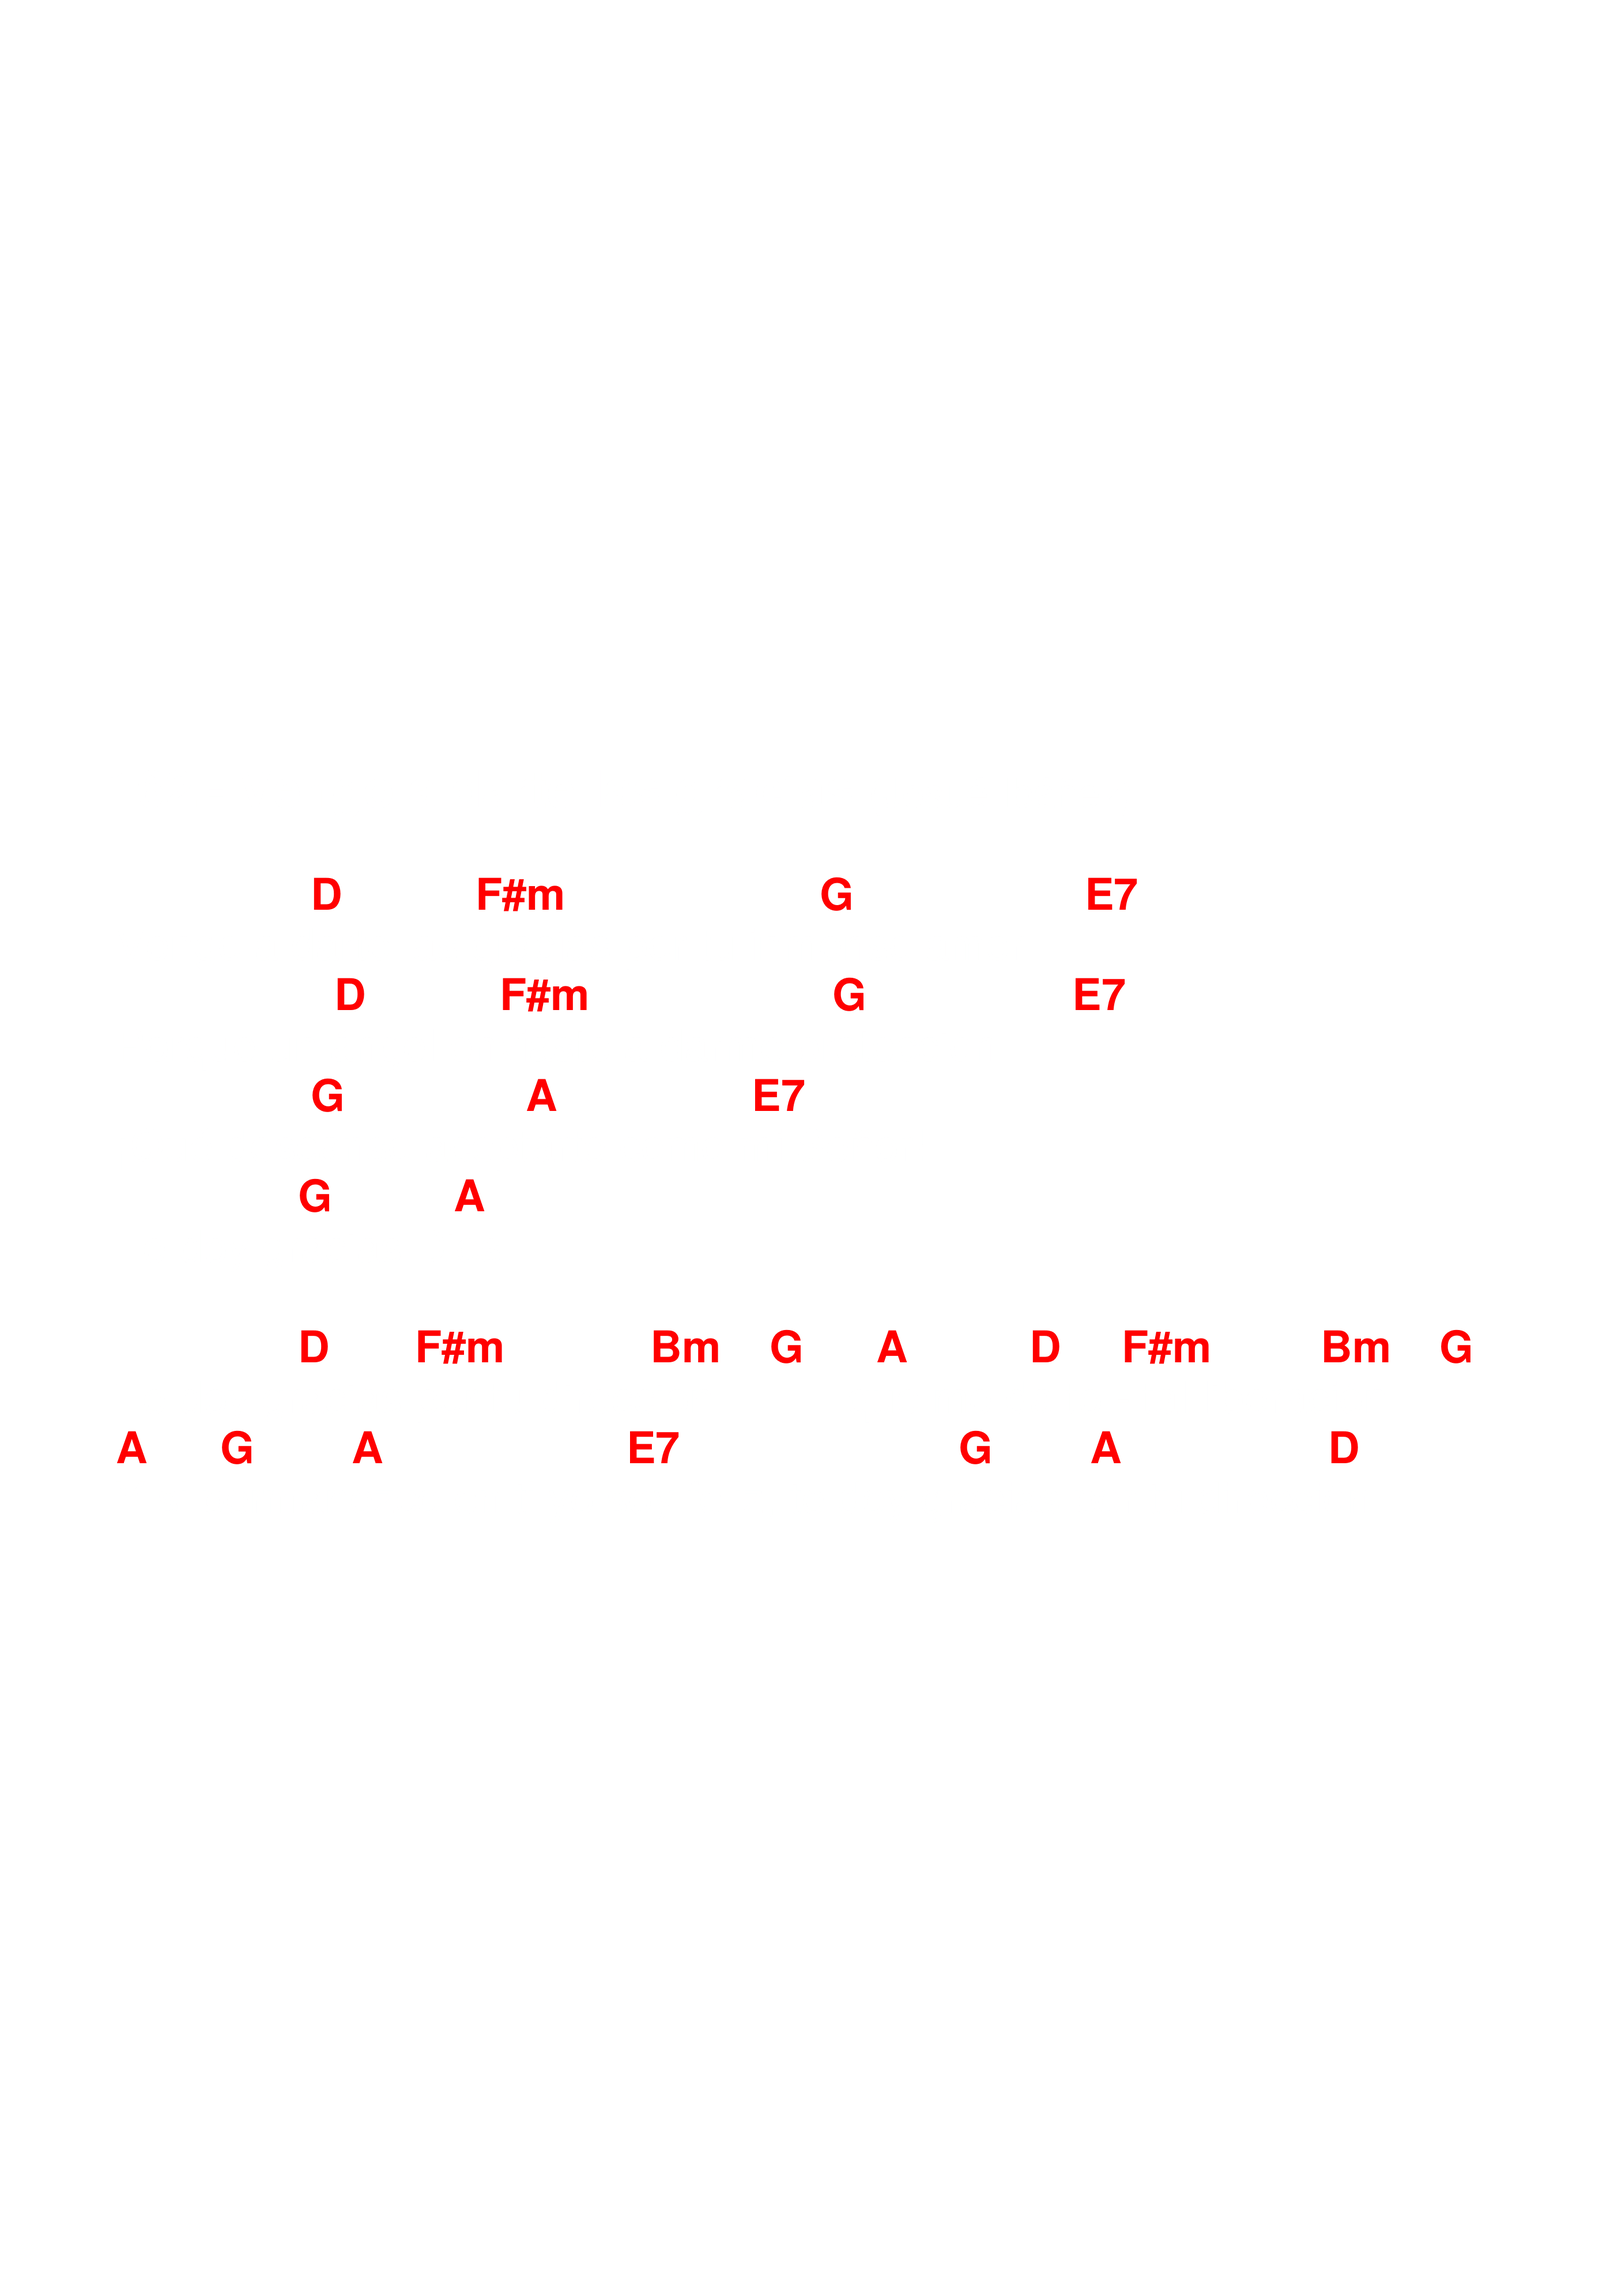
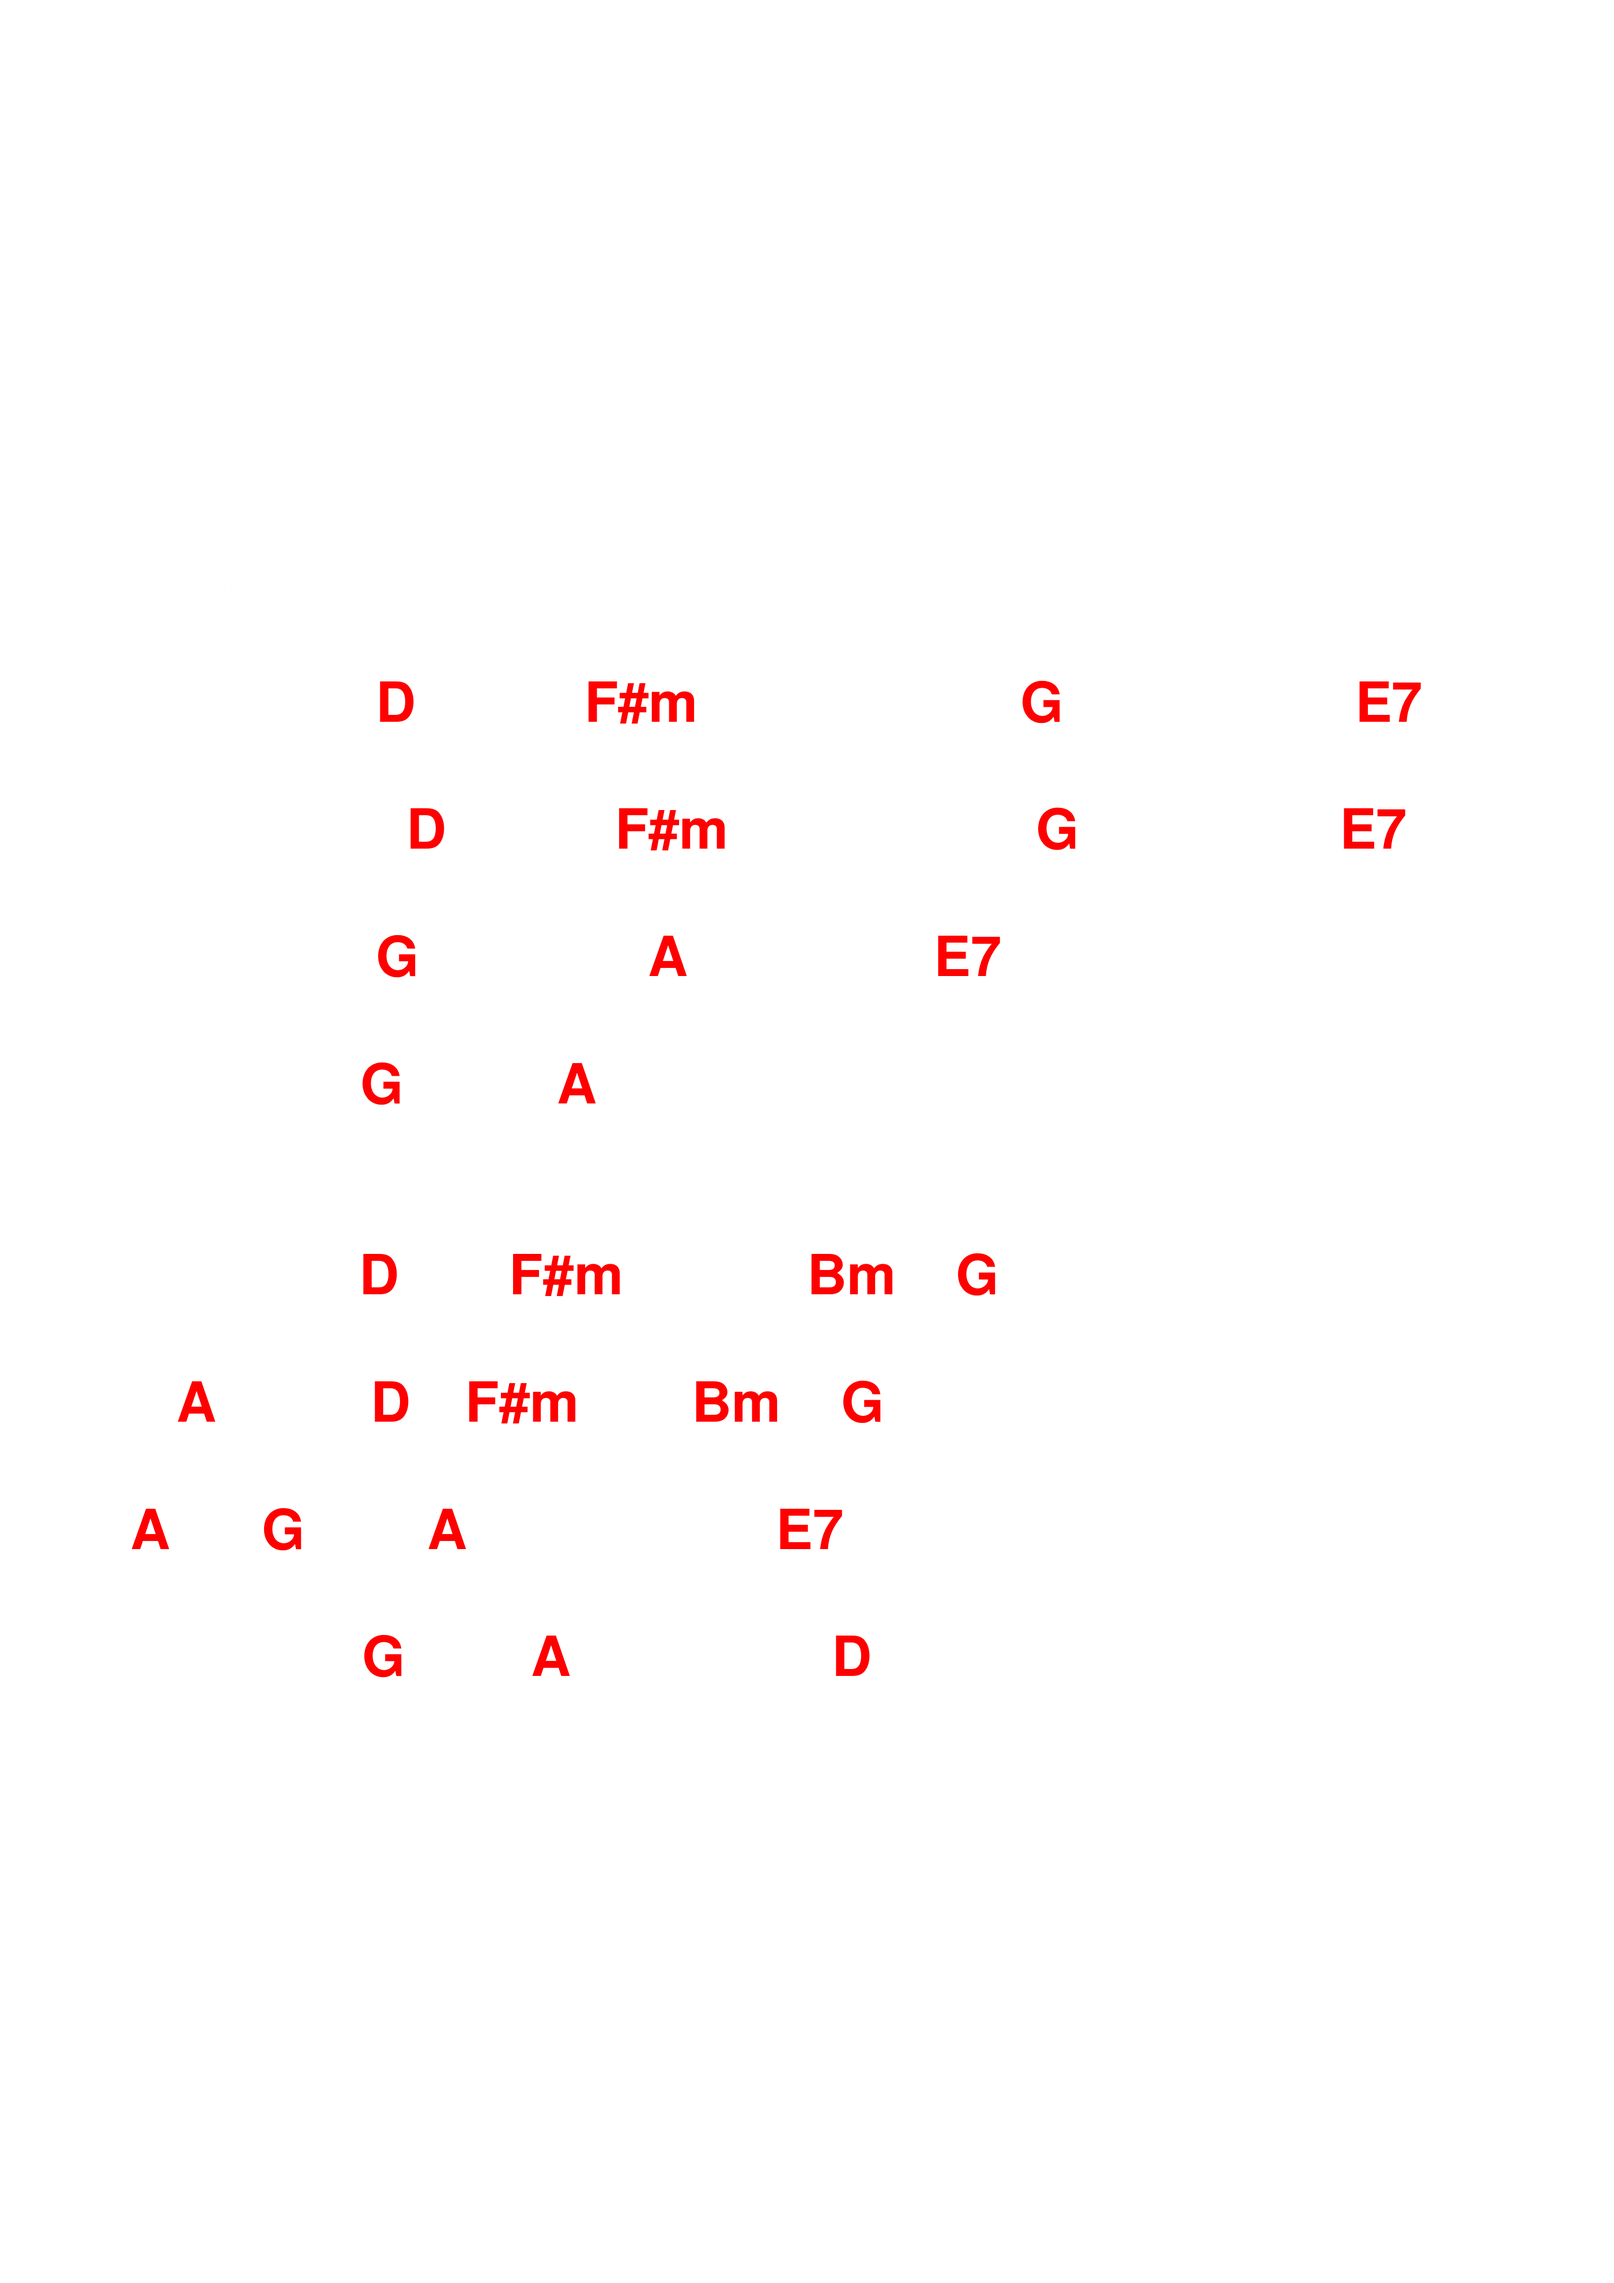
1.19.11: himno 162 mas vertical en la app (Vengo a darte las gracias)

diff --git a/scripts/himnario-pdf/extraer.py b/scripts/himnario-pdf/extraer.py
@@ -17,6 +17,8 @@ import pymupdf
 
 # (1.17.1) "--escala 2" = versión nítida para el zoom (2800x1980*2): mismas proporciones, el doble de píxeles.
 ESCALA = float(sys.argv[sys.argv.index("--escala") + 1]) if "--escala" in sys.argv else 1.0
+# "--solo 162,99" = solo esas imágenes (los datos igual se leen de todo el PDF).
+SOLO = {int(x) for x in sys.argv[sys.argv.index("--solo") + 1].split(",")} if "--solo" in sys.argv else None
 ANCHO, ALTO = int(1400 * ESCALA), int(1980 * ESCALA)   # lienzo A4 vertical
 ESPACIO_TITULO = 14.3                                  # pt entre el título y los acordes (como las canciones nuevas)
 MARGEN = int(56 * ESCALA)                              # margen mínimo alrededor del himno, en px del lienzo
@@ -157,6 +159,8 @@ def main():
     # (1.19.10, Josué) Entre el título y lo que sigue, el MISMO espacio en todos (ESPACIO_TITULO pt, como las canciones
     # nuevas): en las antiguas los acordes empezaban pegados al título. Solo cambia la imagen de la app, no el PDF.
     for n in sorted(himnos):
+        if SOLO and n not in SOLO:
+            continue
         h = himnos[n]
         trozos = []
         caja_titulo = h["lineas"][0]["caja"] if h["lineas"] else None
